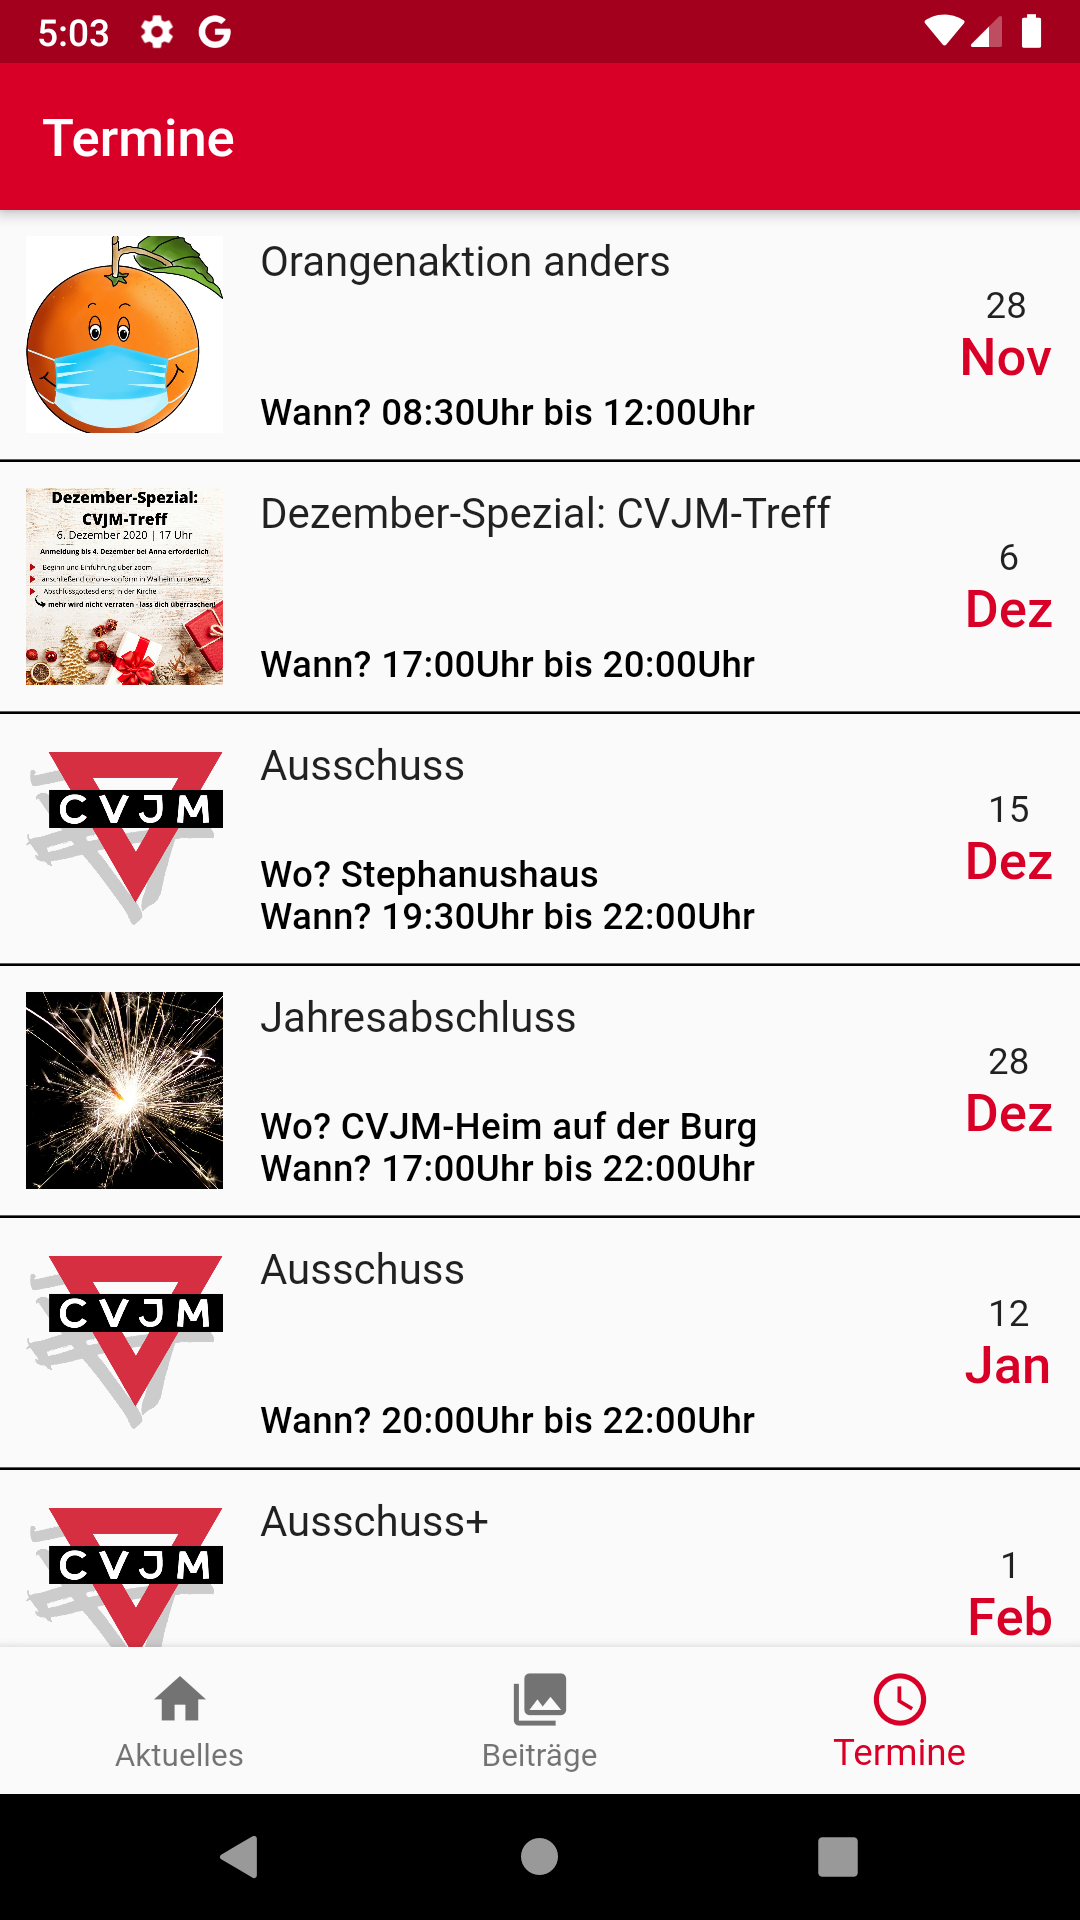
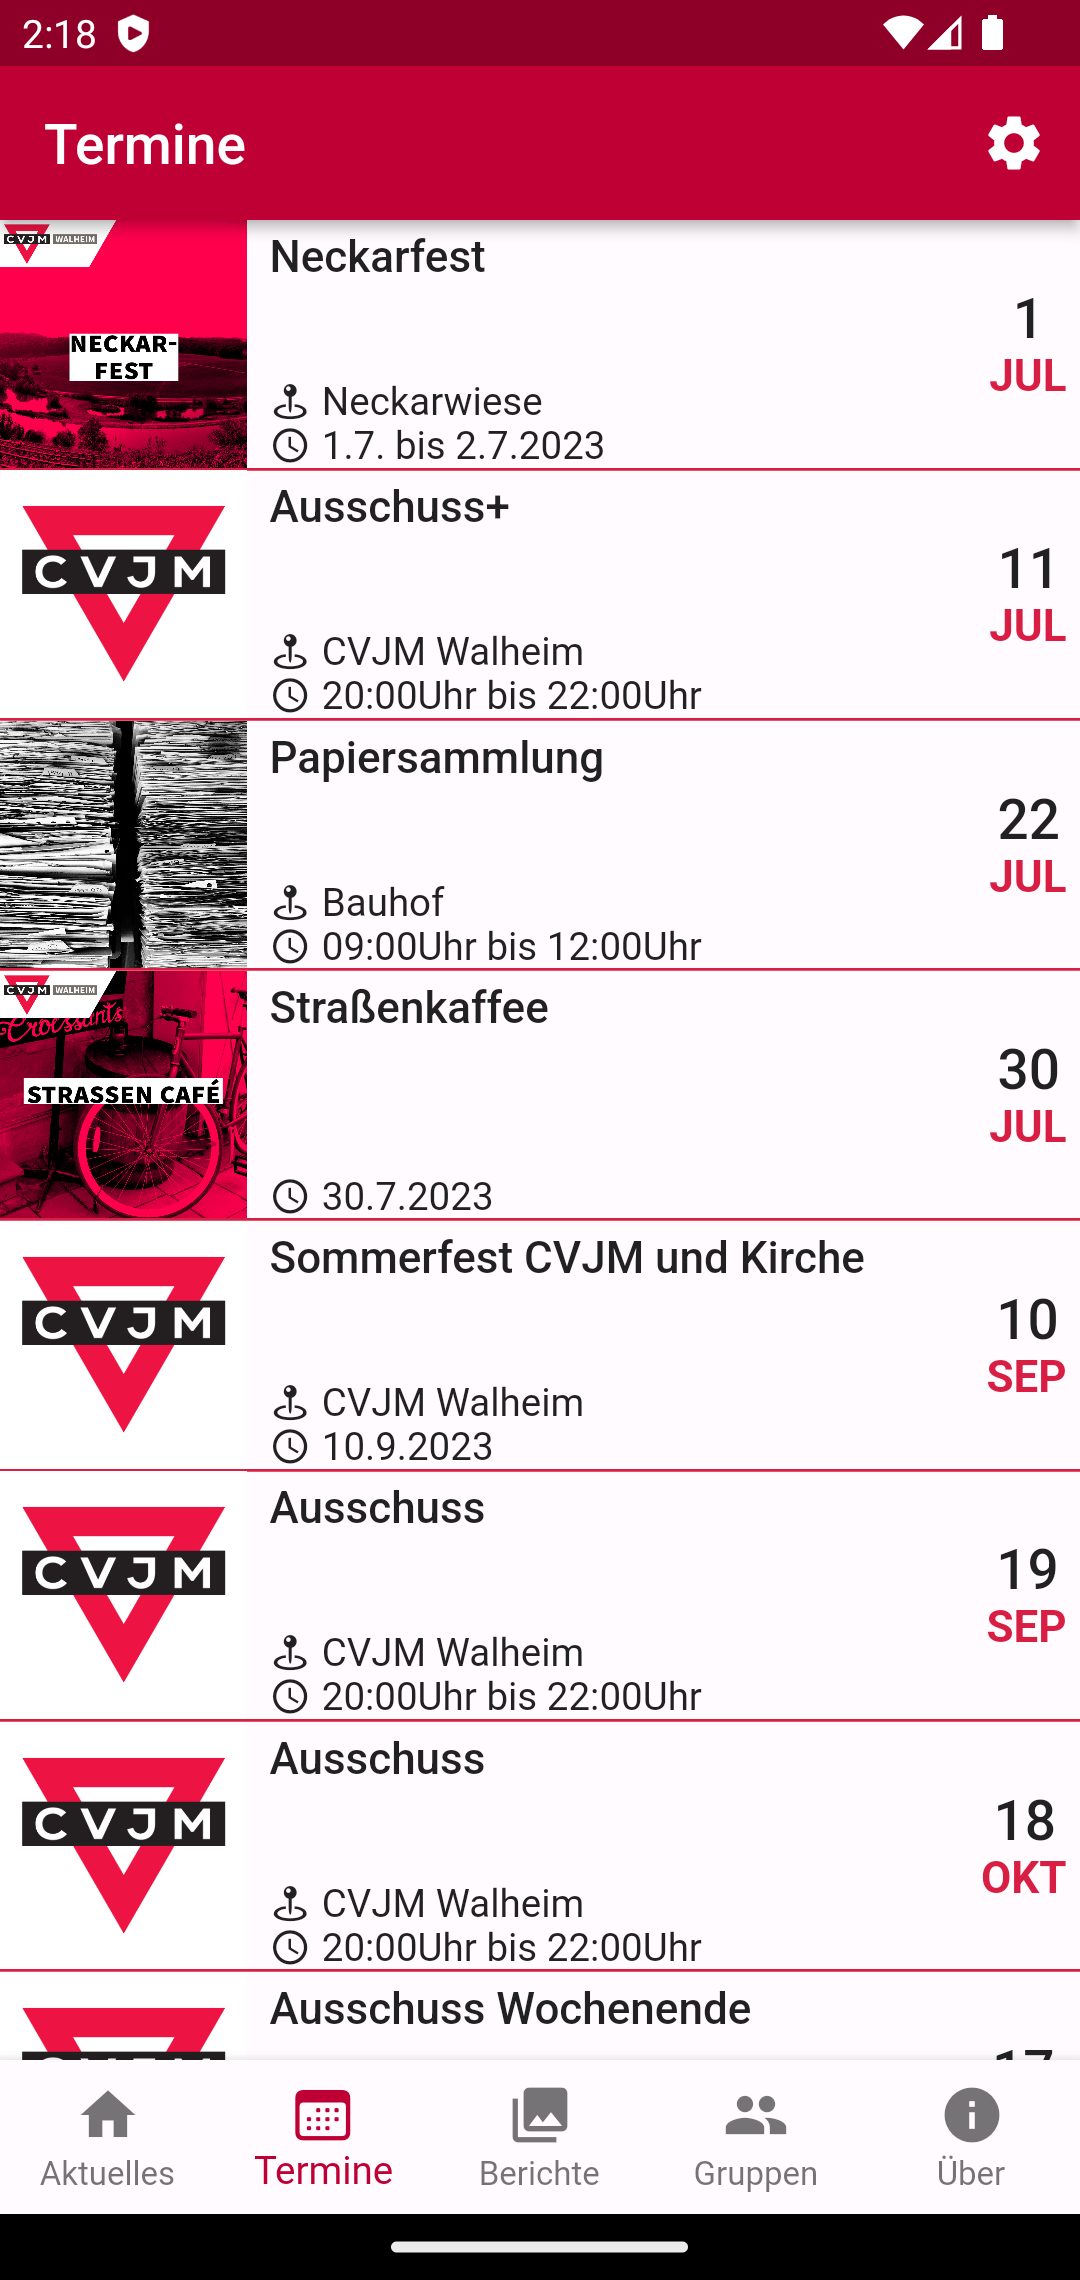
updated screenshots

diff --git a/README.md b/README.md
@@ -34,14 +34,18 @@ Im Endausbau soll die App folgende Funktionen aufweisen.
 
 ## Vorschau
 
-Stand 19.11.2020 HomeScreen sowie PostScreen sind bereits umgesetzt.
+Stand 27.06.2023 HomeScreen sowie PostScreen sind bereits umgesetzt.
 
 | iOS                                    | Android                                        |
 | -------------------------------------- | ---------------------------------------------- |
 | Start                                  |
 | ![iOS](images/Examples/ios/start.png)  | ![Android](images/Examples/android/start.png)  |
-| ![iOS](images/Examples/ios/start2.png) | ![Android](images/Examples/android/start2.png) |
-| Beiträge                               |
-| ![iOS](images/Examples/ios/posts.png)  | ![Android](images/Examples/android/posts.png)  |
 | Termine                                |
 | ![iOS](images/Examples/ios/events.png) | ![Android](images/Examples/android/events.png) |
+| Beiträge                               |
+| ![iOS](images/Examples/ios/posts.png)  | ![Android](images/Examples/android/posts.png)  |
+| Gruppen                                |
+| ![iOS](images/Examples/ios/groups.png) | ![Android](images/Examples/android/groups.png) |
+| Über                                   |
+| ![iOS](images/Examples/ios/about.png)  | ![Android](images/Examples/android/about.png)  |
+
